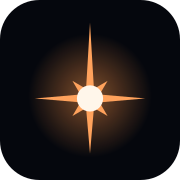
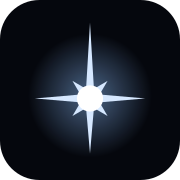
site: the North Star is blue-white, formations hand over halfway between two sections' texts, and the sections have a little more room

Changed region(s): [[0.1944, 0.1389, 0.8056, 0.8333]]

diff --git a/site/script.js b/site/script.js
@@ -1,4 +1,4 @@
-// The dot field. Every dot is an agent; the orange one is the leader. Each section of the
+// The dot field. Every dot is an agent; the blue-white star is the leader. Each section of the
 // page names a formation (data-scene) and the leader pulls the dots into it.
 // Without JavaScript the page is plain text with a normal heading.
 document.documentElement.classList.add("js");
@@ -19,7 +19,7 @@ const C = {
   pink: [244, 150, 190],
   done: [110, 231, 168],
   ask: [255, 200, 87],
-  leader: [255, 150, 72],
+  leader: [205, 226, 255],
 };
 const TINTS = [C.work, C.violet, C.teal, C.pink];
 
@@ -380,7 +380,7 @@ function drawLeader(now) {
   // A fading trail while it travels.
   leader.trail.forEach((p, i) => {
     const k = i / leader.trail.length;
-    ctx.fillStyle = `rgba(255,140,60,${.22 * k * k * a})`;
+    ctx.fillStyle = `rgba(150,190,255,${.22 * k * k * a})`;
     ctx.beginPath(); ctx.arc(p[0], p[1], s * (.4 + .9 * k), 0, 6.283); ctx.fill();
   });
 
@@ -390,12 +390,12 @@ function drawLeader(now) {
     const u = (now - born) / RING_LIFE;
     if (u < 0 || u > 1) continue;
     const e = 1 - (1 - u) * (1 - u) * (1 - u);
-    ctx.strokeStyle = `rgba(255,170,105,${.45 * (1 - u) * a})`;
+    ctx.strokeStyle = `rgba(180,210,255,${.45 * (1 - u) * a})`;
     ctx.beginPath(); ctx.arc(x, y, s * 2 + e * ringReach(), 0, 6.283); ctx.stroke();
   }
 
   // Bloom.
-  ctx.fillStyle = radial(s * 18, [[0, `rgba(255,120,40,${.2 * a})`], [.35, `rgba(255,100,30,${.06 * a})`], [1, "rgba(255,90,20,0)"]]);
+  ctx.fillStyle = radial(s * 18, [[0, `rgba(120,170,255,${.2 * a})`], [.35, `rgba(100,150,255,${.06 * a})`], [1, "rgba(90,140,255,0)"]]);
   ctx.beginPath(); ctx.arc(x, y, s * 18, 0, 6.283); ctx.fill();
 
   // The North Star's rays: four long ones on the compass points, north the longest, and four short
@@ -403,7 +403,7 @@ function drawLeader(now) {
   const ray = (ang, len, w, alpha) => {
     const dx = Math.cos(ang), dy = Math.sin(ang);
     const g = ctx.createLinearGradient(x, y, x + dx * len, y + dy * len);
-    g.addColorStop(0, `rgba(255,236,205,${alpha * a})`); g.addColorStop(.35, `rgba(255,190,130,${alpha * .55 * a})`); g.addColorStop(1, "rgba(255,160,90,0)");
+    g.addColorStop(0, `rgba(240,247,255,${alpha * a})`); g.addColorStop(.35, `rgba(175,208,255,${alpha * .55 * a})`); g.addColorStop(1, "rgba(130,180,255,0)");
     ctx.fillStyle = g;
     ctx.beginPath();
     ctx.moveTo(x - dy * w, y + dx * w);
@@ -429,13 +429,13 @@ function drawLeader(now) {
       i ? ctx.lineTo(x + Math.cos(ang) * r, y + Math.sin(ang) * r) : ctx.moveTo(x + Math.cos(ang) * r, y + Math.sin(ang) * r);
     }
     ctx.fillStyle = radial(base * 1.2, layer
-      ? [[0, `rgba(255,120,45,${.32 * a})`], [1, "rgba(255,90,30,0)"]]
-      : [[0, `rgba(255,170,90,${.75 * a})`], [.55, `rgba(255,120,45,${.35 * a})`], [1, "rgba(255,100,40,0)"]]);
+      ? [[0, `rgba(120,170,255,${.32 * a})`], [1, "rgba(90,140,255,0)"]]
+      : [[0, `rgba(185,215,255,${.75 * a})`], [.55, `rgba(125,170,255,${.35 * a})`], [1, "rgba(100,150,255,0)"]]);
     ctx.fill();
   }
 
   // The hot core.
-  ctx.fillStyle = radial(s * 1.15, [[0, `rgba(255,255,248,${a})`], [.45, `rgba(255,226,180,${a})`], [.8, `rgba(255,170,95,${a})`], [1, `rgba(255,140,60,${.0})`]]);
+  ctx.fillStyle = radial(s * 1.15, [[0, `rgba(255,255,255,${a})`], [.45, `rgba(232,242,255,${a})`], [.8, `rgba(170,205,255,${a})`], [1, "rgba(130,180,255,0)"]]);
   ctx.beginPath(); ctx.arc(x, y, s * 1.15, 0, 6.283); ctx.fill();
 }
 function ringReach() { return narrow ? 260 : 420; }
@@ -463,15 +463,16 @@ function frame(now) {
   // The leader's warm light (not over the docs' text).
   if (leader.a > .01 && scene !== "docs") {
     const g = ctx.createRadialGradient(leader.x, leader.y, 0, leader.x, leader.y, 340);
-    g.addColorStop(0, `rgba(255,140,60,${.16 * leader.a})`);
-    g.addColorStop(1, "rgba(255,140,60,0)");
+    g.addColorStop(0, `rgba(120,165,255,${.16 * leader.a})`);
+    g.addColorStop(.4, `rgba(120,165,255,${.05 * leader.a})`);
+    g.addColorStop(1, "rgba(120,165,255,0)");
     ctx.fillStyle = g; ctx.fillRect(0, 0, W, H);
   }
 
   const fade = still ? 1 : Math.min(1, Math.max(0, (since - 450) / 500));
   if (form && form.lines && fade > 0) {
     ctx.setLineDash([3, 5]); ctx.lineWidth = 1;
-    ctx.strokeStyle = `rgba(255,170,110,${.32 * fade})`;
+    ctx.strokeStyle = `rgba(170,200,255,${.32 * fade})`;
     for (const [a, b, c, d] of form.lines) { ctx.beginPath(); ctx.moveTo(a, b - off); ctx.lineTo(c, d - off); ctx.stroke(); }
     ctx.setLineDash([]);
   }
@@ -539,7 +540,7 @@ function frame(now) {
         const band = Math.abs(dist - r);
         if (band < 16) { const f = (1 - band / 16) * left; warm = Math.max(warm, f); a = Math.min(1, a + f * .8); size += f * 1.1; }
       }
-      if (warm > .01) col = [d.c[0] + (255 - d.c[0]) * warm, d.c[1] + (178 - d.c[1]) * warm, d.c[2] + (110 - d.c[2]) * warm];
+      if (warm > .01) col = [d.c[0] + (225 - d.c[0]) * warm, d.c[1] + (238 - d.c[1]) * warm, d.c[2] + (255 - d.c[2]) * warm];
     }
     if (d.y < -6 || d.y > H + 6 || (hide.length && hide.some((r) => d.x > r.left && d.x < r.right && d.y > r.top && d.y < r.bottom))) continue;
     if (size > 2) glow(d.x, d.y, size, col, a);
@@ -588,11 +589,15 @@ function frame(now) {
   requestAnimationFrame(frame);
 }
 
-// A section's formation takes over once its text reaches the upper fifth of the screen, where you start
-// reading it, not when the section itself crosses the middle while its text is still coming in.
-// Scrolling either way gives the same answer: the last section whose text is at or above that line.
-const SCENE_LINE = .2;
-const sceneText = (s) => s.querySelector(".step-text, .install-text") || s;
+// Formations hand over halfway between two sections' texts: once the middle of the gap between them passes
+// the reading line, a little above the middle of the screen. By then the last lines of the old text are near
+// the top and the new heading is where your eye goes next. Scrolling either way gives the same answer.
+const SCENE_LINE = .42;
+// Where a section's text starts and ends (the hero's ends at its last line, not at the bottom of the screen).
+function sceneText(s) {
+  const r = (s.querySelector(".step-text, .install-text") || s).getBoundingClientRect();
+  return s.lastElementChild && !s.querySelector(".step-text, .install-text") ? { top: r.top, bottom: s.lastElementChild.getBoundingClientRect().bottom } : r;
+}
 let sceneQueued = false;
 function followScroll() {
   if (sceneQueued || !document.querySelector("[data-scene]")) return;
@@ -720,7 +725,7 @@ async function goDocs(url, push = true) {
   savedY = scrollY;
   introDone = true;
   document.body.classList.add("to-docs");
-  await Promise.all([load("link", "docs-css", { rel: "stylesheet", href: new URL("docs.css?v=9", DOCS).href }), wait(320)]);
+  await Promise.all([load("link", "docs-css", { rel: "stylesheet", href: new URL("docs.css?v=10", DOCS).href }), wait(320)]);
   const root = document.createElement("div");
   root.id = "docs-root"; root.className = "ghost";
   const parsed = new DOMParser().parseFromString(html, "text/html");
@@ -761,15 +766,17 @@ function occluders() {
   return out;
 }
 
-// The last section whose text has reached the scene line (see followScroll).
-// At the bottom of the page the last section wins, even if its text can't scroll up that far.
+// The section that owns the scene line (see followScroll): each one owns from the middle of the gap above
+// its text to the middle of the gap below. At the bottom of the page the last section wins.
 function sectionInView() {
   if (pinned) return pinned;
-  const all = document.querySelectorAll("[data-scene]");
-  if (all.length && innerHeight + scrollY >= document.documentElement.scrollHeight - 2) return all[all.length - 1].dataset.scene;
-  let last = "title";
-  for (const el of all) {
-    if (sceneText(el).getBoundingClientRect().top <= H * SCENE_LINE) last = el.dataset.scene;
+  const all = [...document.querySelectorAll("[data-scene]")];
+  if (!all.length) return "title";
+  if (innerHeight + scrollY >= document.documentElement.scrollHeight - 2) return all[all.length - 1].dataset.scene;
+  const boxes = all.map(sceneText);
+  let last = all[0].dataset.scene;
+  for (let i = 1; i < all.length; i++) {
+    if ((boxes[i - 1].bottom + boxes[i].top) / 2 <= H * SCENE_LINE) last = all[i].dataset.scene;
   }
   return last;
 }

diff --git a/site/styles.css b/site/styles.css
@@ -4,7 +4,7 @@
   --ink: #eef1f7;
   --muted: #a3acbe;
   --faint: #6c7589;
-  --leader: #ff9648;
+  --leader: #b9d7ff;
   --focus: #7cc4ff;
   --line: rgba(255, 255, 255, .09);
   --sans: "Inter Tight", ui-sans-serif, -apple-system, BlinkMacSystemFont, "Segoe UI", sans-serif;
@@ -34,8 +34,8 @@ main, .top, .foot { position: relative; z-index: 1; }
 /* Top bar */
 .top { position: fixed; top: 0; left: 0; right: 0; z-index: 10; display: flex; align-items: center; justify-content: space-between; gap: 16px; padding: 16px 32px; background: linear-gradient(var(--bg) 20%, rgba(5, 7, 13, 0)); }
 .brand { display: inline-flex; align-items: center; gap: 10px; font-weight: 700; font-size: 18px; letter-spacing: -.02em; text-decoration: none; }
-.brand-dot { width: 18px; height: 18px; overflow: visible; fill: var(--leader); filter: drop-shadow(0 0 5px rgba(255, 150, 72, .75)); }
-.brand-dot circle { fill: #fff6ea; }
+.brand-dot { width: 18px; height: 18px; overflow: visible; fill: #d6e8ff; filter: drop-shadow(0 0 5px rgba(140, 190, 255, .85)); }
+.brand-dot circle { fill: #fff; }
 .top nav { display: flex; align-items: center; gap: 26px; font-size: 15px; font-weight: 500; }
 .top nav a:not(.pill) { text-decoration: none; color: #cdd3df; }
 .top nav a:not(.pill):hover { color: #fff; }
@@ -60,11 +60,11 @@ main, .top, .foot { position: relative; z-index: 1; }
 .legend { display: flex; flex-wrap: wrap; align-items: center; justify-content: center; gap: 6px 8px; margin: 44px 0 0; font-size: 14px; color: var(--faint); }
 .swatch { display: inline-block; width: 8px; height: 8px; border-radius: 50%; }
 .swatch-agent { background: #cfdeff; box-shadow: 0 0 8px rgba(207, 222, 255, .7); }
-.swatch-leader { margin-left: 8px; background: var(--leader); box-shadow: 0 0 10px rgba(255, 150, 72, .9); }
+.swatch-leader { margin-left: 8px; background: var(--leader); box-shadow: 0 0 10px rgba(140, 190, 255, .95); }
 
 /* Scroll steps: text on the left, the dots form on the right */
 .wrap { width: 100%; max-width: 1200px; margin: 0 auto; padding: 0 40px; }
-.step { padding: 12svh 0; }
+.step { padding: 15svh 0; }
 .step-text, .install-text { max-width: min(450px, 42vw); }
 .kicker { margin: 0 0 18px; font-family: var(--mono); font-size: 13px; letter-spacing: .08em; text-transform: uppercase; color: var(--leader); }
 .step h2, .install h2 { margin: 0 0 22px; font-size: clamp(38px, 4.6vw, 60px); font-weight: 700; line-height: 1.02; letter-spacing: -.035em; background: linear-gradient(180deg, #ffffff 30%, #a9b5ca); -webkit-background-clip: text; background-clip: text; color: transparent; }
@@ -73,7 +73,7 @@ pre { margin: 22px 0 0; padding: 14px 16px; overflow-x: auto; border: 1px solid 
 pre code { font-size: inherit; }
 
 /* Install */
-.install { padding: 12svh 0 120px; }
+.install { padding: 15svh 0 120px; }
 .install-text { max-width: min(560px, 46vw); }
 .install .sub { color: #cdd3df; margin-top: 26px; }
 .install .sub a { color: #fff; }
@@ -81,8 +81,8 @@ pre code { font-size: inherit; }
 .needs { font-size: 14.5px !important; color: var(--faint) !important; }
 .code { position: relative; }
 .code pre { margin-top: 0; padding-right: 78px; }
-.code-prompt { padding: 18px 84px 18px 20px; border: 1px solid rgba(255, 150, 72, .28); border-radius: 12px; background: rgba(40, 22, 10, .45); }
-.code-prompt p { margin: 0; font-size: 17px; line-height: 1.55; color: #f2e6dc; }
+.code-prompt { padding: 18px 84px 18px 20px; border: 1px solid rgba(150, 195, 255, .28); border-radius: 12px; background: rgba(14, 24, 44, .55); }
+.code-prompt p { margin: 0; font-size: 17px; line-height: 1.55; color: #e3ecf8; }
 .copy { position: absolute; top: 10px; right: 10px; padding: 6px 12px; border: 1px solid rgba(255, 255, 255, .16); border-radius: 999px; background: rgba(255, 255, 255, .06); color: var(--ink); font-size: 12.5px; font-weight: 600; }
 .copy:hover { background: rgba(255, 255, 255, .14); }
 .copy-status { min-height: 22px; margin-top: 12px !important; font-size: 14px !important; color: #cdd3df !important; }

diff --git a/site/docs/docs.css b/site/docs/docs.css
@@ -6,7 +6,7 @@
   --muted: #a1aabd;
   --faint: #6a7388;
   --line: rgba(255, 255, 255, .08);
-  --leader: #ff9648;
+  --leader: #b9d7ff;
   --focus: #7cc4ff;
   --link: #ffb27a;
   --code-bg: #0d121d;
@@ -35,8 +35,8 @@ button { font: inherit; cursor: pointer; }
 #field { position: fixed; inset: 0; z-index: 50; width: 100%; height: 100%; pointer-events: none; }
 .js .logo-dot { visibility: hidden; }
 .logo { display: inline-flex; align-items: center; gap: 9px; font-weight: 700; font-size: 17px; letter-spacing: -.02em; text-decoration: none; white-space: nowrap; }
-.logo-dot { width: 16px; height: 16px; overflow: visible; fill: var(--leader); filter: drop-shadow(0 0 4px rgba(255, 150, 72, .75)); }
-.logo-dot circle { fill: #fff6ea; }
+.logo-dot { width: 16px; height: 16px; overflow: visible; fill: #d6e8ff; filter: drop-shadow(0 0 4px rgba(140, 190, 255, .85)); }
+.logo-dot circle { fill: #fff; }
 .logo-tag { padding: 2px 7px; border: 1px solid var(--line); border-radius: 6px; font-family: var(--mono); font-size: 11px; font-weight: 500; color: var(--muted); }
 .menu { display: none; flex-direction: column; justify-content: center; gap: 4px; width: 36px; height: 36px; padding: 0 9px; border: 1px solid var(--line); border-radius: 8px; background: transparent; }
 .menu span { display: block; height: 1.5px; background: var(--ink); }
@@ -51,7 +51,7 @@ button { font: inherit; cursor: pointer; }
 .search-key { position: absolute; right: 9px; top: 8px; padding: 1px 6px; border: 1px solid var(--line); border-radius: 5px; font-family: var(--mono); font-size: 11px; color: var(--faint); pointer-events: none; }
 .results { position: absolute; top: 44px; left: 0; right: 0; max-height: 70vh; overflow-y: auto; margin: 0; padding: 6px; list-style: none; border: 1px solid var(--line); border-radius: 12px; background: #0b0f19; box-shadow: 0 20px 50px rgba(0, 0, 0, .6); }
 .results a { display: block; padding: 9px 11px; border-radius: 8px; text-decoration: none; }
-.results a:hover, .results a.on { background: rgba(255, 150, 72, .1); }
+.results a:hover, .results a.on { background: rgba(150, 195, 255, .1); }
 .results .r-where { display: block; font-size: 12px; color: var(--faint); }
 .results .r-title { display: block; font-weight: 600; font-size: 14.5px; }
 .results .r-snip { display: block; margin-top: 2px; font-size: 13px; color: var(--muted); white-space: nowrap; overflow: hidden; text-overflow: ellipsis; }
@@ -113,13 +113,13 @@ button { font: inherit; cursor: pointer; }
 .doc th, .doc td { padding: 9px 14px 9px 0; border-bottom: 1px solid var(--line); text-align: left; vertical-align: top; }
 .doc th { font-size: 12.5px; font-weight: 600; letter-spacing: .04em; text-transform: uppercase; color: var(--faint); }
 .doc td:first-child { white-space: nowrap; }
-.doc blockquote { margin: 0 0 20px; padding: 12px 18px; border: 1px solid rgba(255, 150, 72, .22); border-left: 3px solid var(--leader); border-radius: 8px; background: rgba(255, 150, 72, .05); color: #e2d6cc; }
+.doc blockquote { margin: 0 0 20px; padding: 12px 18px; border: 1px solid rgba(150, 195, 255, .22); border-left: 3px solid var(--leader); border-radius: 8px; background: rgba(150, 195, 255, .05); color: #d6e0ee; }
 .doc blockquote p:last-child { margin-bottom: 0; }
 .doc .missing { color: var(--muted); }
 
 .pager { display: grid; grid-template-columns: 1fr 1fr; gap: 14px; max-width: 780px; margin-top: 56px; }
 .pager a { display: block; padding: 14px 18px; border: 1px solid var(--line); border-radius: 12px; text-decoration: none; }
-.pager a:hover { border-color: rgba(255, 150, 72, .45); }
+.pager a:hover { border-color: rgba(150, 195, 255, .45); }
 .pager span { display: block; font-size: 12.5px; color: var(--faint); }
 .pager strong { font-weight: 600; }
 .pager .next { grid-column: 2; text-align: right; }

diff --git a/site/index.html b/site/index.html
@@ -18,8 +18,8 @@
   <link rel="preconnect" href="https://fonts.googleapis.com">
   <link rel="preconnect" href="https://fonts.gstatic.com" crossorigin>
   <link rel="stylesheet" href="https://fonts.googleapis.com/css2?family=Inter+Tight:wght@400;500;600;700;800&family=JetBrains+Mono:wght@400;500&display=swap">
-  <link rel="stylesheet" href="styles.css?v=12">
-  <script src="script.js?v=26" defer></script>
+  <link rel="stylesheet" href="styles.css?v=13">
+  <script src="script.js?v=27" defer></script>
 </head>
 <body>
   <canvas id="field" aria-hidden="true"></canvas>
@@ -44,7 +44,7 @@
         <a class="pill pill-light" href="#install">Install <span aria-hidden="true">↓</span></a>
         <a class="pill pill-ghost" href="https://github.com/zenodea/lodestar">View on GitHub <span aria-hidden="true">↗</span></a>
       </div>
-      <p class="legend"><span class="swatch swatch-agent" aria-hidden="true"></span>Each dot is an agent. <span class="swatch swatch-leader" aria-hidden="true"></span>The orange star is in charge: the lodestar, the North Star the others steer by.</p>
+      <p class="legend"><span class="swatch swatch-agent" aria-hidden="true"></span>Each dot is an agent. <span class="swatch swatch-leader" aria-hidden="true"></span>The bright blue-white star is in charge: the lodestar, the North Star the others steer by.</p>
     </section>
 
     <section class="step" id="delegate" data-scene="delegate" aria-labelledby="s1">

diff --git a/site/docs/index.html b/site/docs/index.html
@@ -12,10 +12,10 @@
   <link rel="preconnect" href="https://fonts.googleapis.com">
   <link rel="preconnect" href="https://fonts.gstatic.com" crossorigin>
   <link rel="stylesheet" href="https://fonts.googleapis.com/css2?family=Inter+Tight:wght@400;500;600;700&family=JetBrains+Mono:wght@400;500&display=swap">
-  <link rel="stylesheet" href="docs.css?v=9">
+  <link rel="stylesheet" href="docs.css?v=10">
   <script src="https://cdn.jsdelivr.net/npm/marked@12.0.2/marked.min.js" defer></script>
   <script src="docs.js?v=7" defer></script>
-  <script src="../script.js?v=26" defer></script>
+  <script src="../script.js?v=27" defer></script>
 </head>
 <body>
   <canvas id="field" aria-hidden="true"></canvas>

diff --git a/README.md b/README.md
@@ -1,4 +1,4 @@
-<img src="site/assets/og.png" alt="The word LODESTAR spelled in small white dots, with a glowing orange dot as its full stop. Under it: Lodestar lets one coding agent run a team of others.">
+<img src="site/assets/og.png" alt="The word LODESTAR spelled in small white dots, with a blue-white North Star as its full stop. Under it: Lodestar lets one coding agent run a team of others.">
 
 # Lodestar
 
